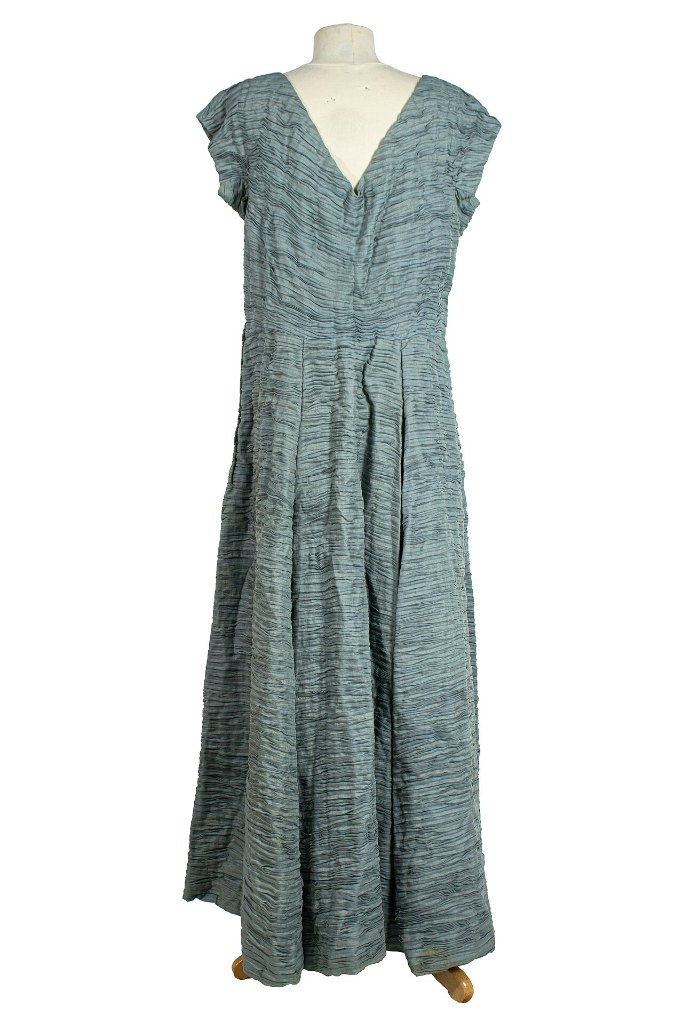
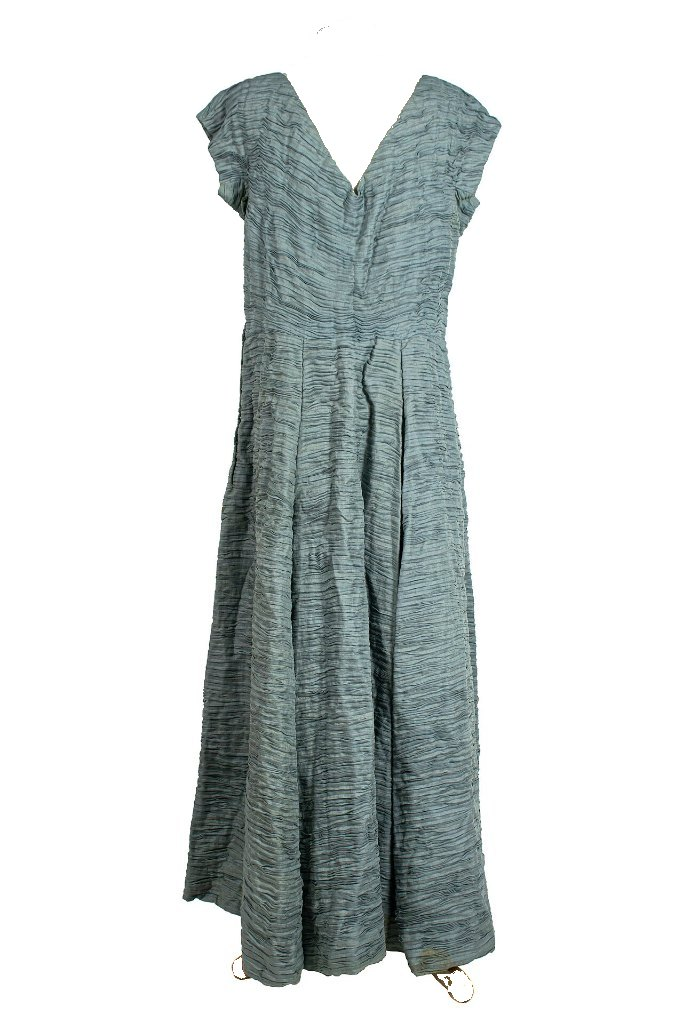
見本のワンピースからトルソーを消す・「これに決めた」をタブバーの上に固定・はじめの画面に絵と手順 (#70 #71 #72)

Changed region(s): [[0.3997, 0.0, 0.6149, 0.1875], [0.6457, 0.9375, 0.7072, 1.0], [0.3382, 0.9375, 0.369, 0.9688]]

diff --git a/src/style.css b/src/style.css
@@ -1071,3 +1071,66 @@ button:disabled {
 .rack.grid .empty p {
   margin: 0;
 }
+
+/* はじめの画面: アバターの絵と 3 つの手順 (#72) */
+.welcome-hero {
+  display: grid;
+  grid-template-columns: 100px minmax(0, 1fr);
+  align-items: center;
+  gap: var(--sp-3);
+  padding: var(--sp-3);
+  border-radius: var(--radius);
+  background: radial-gradient(ellipse at 20% 40%, var(--c-surface) 0%, var(--c-surface-2) 75%);
+}
+.welcome-hero img {
+  width: 100px;
+  height: 200px;
+  object-fit: contain;
+}
+.steps {
+  display: grid;
+  gap: var(--sp-3);
+  margin: 0;
+  padding: 0;
+  list-style: none;
+  counter-reset: step;
+}
+.steps li {
+  display: grid;
+  grid-template-columns: 28px minmax(0, 1fr);
+  column-gap: var(--sp-2);
+  counter-increment: step;
+}
+.steps li::before {
+  content: counter(step);
+  grid-row: span 2;
+  display: grid;
+  place-items: center;
+  width: 28px;
+  height: 28px;
+  border-radius: 50%;
+  background: var(--c-primary-strong);
+  color: var(--c-on-primary);
+  font-weight: 700;
+  font-size: var(--fs-s);
+}
+.steps span {
+  color: var(--c-muted);
+  font-size: var(--fs-s);
+}
+
+/* スマホの幅: 「これに決めた」はタブバーのすぐ上に固定し、スクロールしなくても押せる (#71) */
+@media (max-width: 767px) {
+  .decide-row .decide {
+    position: fixed;
+    left: max(var(--sp-3), env(safe-area-inset-left));
+    right: max(var(--sp-3), env(safe-area-inset-right));
+    bottom: calc(var(--tabbar-h) + env(safe-area-inset-bottom) + var(--sp-2));
+    width: auto;
+    z-index: 15;
+    box-shadow: 0 6px 18px rgb(181 59 94 / 0.28);
+  }
+  .dresser {
+    padding-bottom: calc(var(--tap) + var(--sp-3));
+  }
+}

diff --git a/src/App.tsx b/src/App.tsx
@@ -147,6 +147,24 @@ function Welcome({ onIn }: { onIn: (notice: string) => void }) {
       <h1>{"kisekae-closet"}</h1>
       {/* prettier-ignore */}
       <p data-testid="goal">{"開くと今日の天気とおすすめを着たアバターが出て、クローゼットから服を引っ張り出して着せ替え、ワンタップで今日のコーデに決められる"}</p>
+      {/* 何をするアプリか一目で分かるように、アバターの絵と 3 つの手順 (#72) */}
+      <div className="welcome-hero">
+        <img src="/avatar/body.webp" alt="" width="100" height="200" />
+        <ol className="steps">
+          <li>
+            <b>撮ってしまう</b>
+            <span>服の写真をクローゼットへ</span>
+          </li>
+          <li>
+            <b>着せる</b>
+            <span>天気に合うコーデがアバターに</span>
+          </li>
+          <li>
+            <b>決める</b>
+            <span>ワンタップで今日のコーデに</span>
+          </li>
+        </ol>
+      </div>
       <p className="muted">ログインはパスキーだけ。パスワードもメールアドレスも要りません。</p>
       <label className="field">
         パスキーの名前 (端末の一覧に出るだけ。保存しません)

diff --git a/docs/design-system.md b/docs/design-system.md
@@ -3,7 +3,9 @@
 持ち主: **designer**。画面はここに書いたものだけで作る。変えるときは、わざと変えて理由を `## 変えたこと` に書く。
 
 ## トークン
+
 `src/style.css` の `:root` に CSS 変数で置く。部品は生の値 (色・大きさ・余白) を書かず、変数だけを使う。
+
 - 色 (いちごミルク): 地 `--c-bg` #fff7f9・面 `--c-surface`/`--c-surface-2`・文字 `--c-text` #3d2a30・弱い文字 `--c-muted`・強調 `--c-primary-strong` #b53b5e (白い字とのコントラスト 4.5 以上)・やさしいピンク `--c-primary-soft`・失敗 `--c-danger`。
   ゲージ `--c-cold`/`--c-ok`/`--c-hot`、カレンダーの近さ `--c-same`/`--c-near`、キラッ `--c-gold`
 - 文字: system-ui (外から字を読まない)。段は `--fs-s` 0.8125 / `--fs-m` 1 / `--fs-l` 1.25rem
@@ -12,11 +14,13 @@
 - 大きさ: タップは `--tap` 48px 以上。アバターの台は `--stage-w` 200px × `--stage-h` 400px、幅 768px 以上では 280px × 560px (#34)。今日の画面は、スマホの幅 (360px) でも台 (200×400px、縮めない・左) と服の棚 (右) の 2 列。棚は台と同じ高さで、服の列 (正方形のタイル 1 列、着ている服は濃い枠と右上のチェック) と、右端の種類のレール (`--rail-w` 48px、形の絵 `KindIcon`。名前は読み上げ用の文字と title) に分ける。服の列だけが縦に流れ (持ち主 2026-11-21 の案 B)、アバターは見えたまま。その下にラベル・暖かさゲージ・これに決めた (Rin0107/kisekae-closet-archive#50)。その幅の中では**固定** (どの画面でも一番大きい。中身で縮めない)
 
 ## テーマ
+
 `src/theme.ts` の `THEMES`。いちごミルク (既定、`:root` と同じ値)・ミントソーダ・ラベンダー・ミルクティー。
 色のトークン (`THEME_TOKENS`) だけを `:root` に上書きする。大きさ・余白・台の大きさは変えない。
 字と地の組 (`TEXT_PAIRS`) は、どのテーマでも 4.5:1 以上 (`tests/unit/theme.test.ts`)。新しいテーマも同じ検査を通す。
 
 ## 部品
+
 - **アバターの台** (`Stage`): 正面に固定した体の絵 (CC0 の MakeHuman の人体を Blender で描いた `public/avatar/body.webp`、400×800、背景は透明。出どころは `public/avatar/LICENSE.md`) に、切り抜いた服の写真を種類ごとの場所 (`SLOTS`) に重ねる。写真は曲げない。トップス・ワンピース・アウター・ボトムスは**幅で合わせ、縦は写真のまま** (体の絵を測った目印 `BODY` に対し、袖を除いた身ごろが胴の下着の幅と首元を覆う幅。#26)。ボトムスは丈を先に決め、裾が足首に届く幅にする (腰を覆う 46%〜太すぎない 60%、`place`、#33)。アウターはトップスより一回り大きく少し下から置き、中の服の襟元がのぞく (#33)。くつは 2 足の写真を左右の半分に切り分け、それぞれの足に履かせる (`shoeFeet`、#32)。片足の箱は足より一回り大きく (`FOOT_BOX` 16×10%、細くても足の幅を下回らない)、ボトムスの裾より前に重ねる (長ズボンでも甲が見える、#39)。トップス・アウターは写真を左の袖・身ごろ・右の袖に切り分け (`pieces`)、切れ目は写真ごとに身ごろの端を測って決め (`bodiceEdge`、縁のにじみを袖に入れない)、袖の向き (付け根の真ん中→袖の重心、`measureSleeve`) が腕の向き (`ARM_ANGLE`、約 35 度) にそろうように回す (`sleeveTurn`、-70〜45 度。外へは付け根の真ん中、内へは肩の縫い目を中心に。袖の先は台の外に出さない。写真は曲げない、#37 #44)。袖は身ごろの下に描き、影は服 1 枚分の入れ物 (`wear-cut`) に付ける (継ぎ目に線を出さない、#44 #47)。中にトップスかワンピースを着ていれば、アウターは前身ごろを左右に分けて前を開ける (`OPEN_GAP`、#38)。こものは箱に収める。服が届くまでは服の場所に淡い形 (`wear-pending`) を出し、下着姿を見せない (#28)。今日の画面とカレンダーの下見で使う
 - **ラベルの行** (`LabelRow`): 台の下の高さ固定 (32px) の 1 行。3 つまで、残りは「+N」。台には重ねない
 - **暖かさゲージ** (`GaugeView`): 寒い・ちょうどいい・暑いの帯とつまみ。数字は出さない。服が届くまではつまみを出さず「服を読んでいます…」 (#28)。帯の言葉 (寒い・ちょうどいい・暑い) と「暖かさ: ○○」はスマホの幅でも折り返さない (`nowrap`)。その下に帯ごとの一言 (`ADVICE`、20 文字以内。寒い=「少し寒そう。もう1枚重ねよう」・ちょうどいい=「ちょうどいい。このままでOK」・暑い=「少し暑そう。1枚減らそう」)。読み込み中は出さない
@@ -35,6 +39,7 @@
 - ボタン: `primary` (主な 1 つ)・`ghost` (それ以外)・押している状態は `aria-pressed`/`aria-selected` で同じ見た目
 
 ## 状態
+
 - からっぽの棚: クローゼットの画面の棚に服がなければ、「ワンピースはまだありません」と「ワンピースを撮る」ボタン。押すと種類をその棚に合わせ、撮る欄まで動く (Rin0107/kisekae-closet-archive#49)
 - 種類のチップ: しまう服の種類は、枠と同じ形の小さな絵 (`FRAMES`、24px) と名前のチップを 1 列で横に流す (折り返さない、高さ `--tap`) (Rin0107/kisekae-closet-archive#49)
 - 登録: 写真を選ぶまで「クローゼットにしまう」は押せない (disabled)。しまえたら「トップスにしまいました」を role=status の小さなカード (`.saved`) で知らせる (Rin0107/kisekae-closet-archive#49)
@@ -45,19 +50,24 @@
 - できた: キラッ・スタンプ
 
 ## 文言
+
 - 調子: です・ます。短く。ボタンは動詞 (しまう・決めた・この日のコーデにする)
 - 服の暖かさ (しまうとき・棚のカード): ●の数でなく 5 つの言葉と服の例 (`WARMTH`): とても薄い=Tシャツ・薄手=シャツ・ふつう=ニット (最初)・厚手=ジャケット・とても暖かい=ダウン。ボタンは名前と例の縦 2 段のチップ。`aria-label` は「暖かさ 1〜5」のまま
 - 用語: 服・コーデ・クローゼット・棚・ラベル・暖かさ・スタンプ。「着せ替えてみる」ボタンは作らない
 
 ## アクセシビリティ
+
 - スマホの幅 (360px) で崩れない・横に流れない
 - キーボードだけで操作できる (カードはボタン。ドラッグの代わりにタップ・Enter で着る)
 - 文字と背景のコントラストは WCAG AA 以上。色だけで意味を伝えない (ゲージは言葉、カレンダーは凡例と aria-label)
 
 ## 変えたこと
+
 - 2026-11-17 v0.3: テーマ 4 つ・先の日のコーデ (♡・先の日の帯)。いちごミルクの `--c-primary-strong` を #c94a6c → #b53b5e (地 #fff7f9 とのコントラストが 4.26 で AA に届いていなかった。検査を足して分かった)
 - 2026-11-17 最初の版。持ち主の指定 (idea.md の「デザイン」) から: いちごミルク・台は固定で一番大きい・ラベルは台の外の 1 行・ゲームの要素はキラッとスタンプだけ
 - カレンダーで選んだ日は背景ではなく枠 (濃い色のリング) で示す。背景は「似た天気」の凡例の色のまま (#29)
 - 天気の行は、気温・湿度・雨のまとまり (`.nb`) の途中で折り返さない (#29)
 - 上部: ホーム画面から開くと全画面になる。ステータスバーは `default` (黒い文字、画面はその下から)。`main` は上と左右を `env(safe-area-inset-*)` だけ空ける (持ち主 2026-11-21「天気マークや東京が電波マークや充電量にかぶる」)
 - 天気の行: 気温を大きく (1 行目)、湿度と雨を小さく (2 行目)。市は丸い小さな選ぶ欄
+- 決めるボタン: スマホの幅 (767px まで) では「これに決めた」をタブバーのすぐ上に固定する。台 400px の下でもスクロールせずに押せる。広い画面では今日の画面の中のまま (#71)
+- はじめの画面: アバターの絵 (`body.webp`) と、番号つきの 3 つの手順 (撮ってしまう・着せる・決める) を並べる (#72)

diff --git a/docs/architecture.md b/docs/architecture.md
@@ -3,6 +3,7 @@
 持ち主: **engineer**。設計を変えたら、同じ PR でここを書き直す。
 
 ## ドメインの言葉
+
 - **服** (clothing): 写真・種類 (top / bottom / outer / dress / shoes / accessory)・暖かさ (1〜5)・名前
 - **コーデ** (outfit): ある日に着た服の組と、その日の最高/最低気温・湿度・降水量
 - **おすすめ**: 今日の天気から要る暖かさの合計を決め、手持ちの服から一番近い組を選ぶ (`src/recommend.ts`)
@@ -20,6 +21,7 @@
 - **ボトムスの丈**: 縦長の写真は腰を覆う幅 (`BOTTOM_MIN_WIDTH`) より細くできず丈が伸びる。写真は曲げず、足の裏より下に出る分は clip で下から隠す (`HEM_MAX` = 足の裏の 1% 上、`Box.clip`、評価10)
 
 ## 層と依存の向き
+
 - Worker (`src/worker/`)
   - `index.ts` — 入口。`/api/` の外は静的ファイル (`ASSETS`)。`/api/` は Origin の検査 → ログイン → セッションから利用者 ID → `api.ts`
   - `api.ts` — 利用者の API (機能を足す場所)。`Store` の関数だけを呼ぶ
@@ -35,35 +37,39 @@
   - UI: `App.tsx` (今日・クローゼット・カレンダーの 3 画面と下のタブバー)・`Avatar.tsx` (アバターの台)・`Photo.tsx` (切り抜いた写真)
 
 ## API
-| 方法 | 道 | 中身 |
-| --- | --- | --- |
-| POST | `/api/auth/register/options` | `{displayName?}` → `{challengeId, options}` |
-| POST | `/api/auth/register/verify` | `{challengeId, response}` → Cookie |
-| POST | `/api/auth/login/options` | → `{challengeId, options}` |
-| POST | `/api/auth/login/verify` | `{challengeId, response}` → Cookie |
-| POST | `/api/auth/logout` | Cookie を消す |
-| GET | `/api/me` | `{signedIn: true}` か 401 |
-| DELETE | `/api/account` | アカウントと全データを消す |
-| GET/POST | `/api/clothes` | 一覧 (写真なし) / `{kind, warmth, label, photo(base64)}` |
-| GET | `/api/clothes/:id/photo` | 写真 (本人だけ、no-store) |
-| PATCH/DELETE | `/api/clothes/:id` | `{kind?, warmth?, label?}` / 消す |
-| GET/POST | `/api/outfits` | `?limit=` / `{wornOn, itemIds, tempMax, tempMin, humidity, precip}` |
-| DELETE | `/api/outfits/:id` | 消す |
-| GET | `/api/export` | 服 (写真つき) とコーデの JSON |
+
+| 方法         | 道                           | 中身                                                                |
+| ------------ | ---------------------------- | ------------------------------------------------------------------- |
+| POST         | `/api/auth/register/options` | `{displayName?}` → `{challengeId, options}`                         |
+| POST         | `/api/auth/register/verify`  | `{challengeId, response}` → Cookie                                  |
+| POST         | `/api/auth/login/options`    | → `{challengeId, options}`                                          |
+| POST         | `/api/auth/login/verify`     | `{challengeId, response}` → Cookie                                  |
+| POST         | `/api/auth/logout`           | Cookie を消す                                                       |
+| GET          | `/api/me`                    | `{signedIn: true}` か 401                                           |
+| DELETE       | `/api/account`               | アカウントと全データを消す                                          |
+| GET/POST     | `/api/clothes`               | 一覧 (写真なし) / `{kind, warmth, label, photo(base64)}`            |
+| GET          | `/api/clothes/:id/photo`     | 写真 (本人だけ、no-store)                                           |
+| PATCH/DELETE | `/api/clothes/:id`           | `{kind?, warmth?, label?}` / 消す                                   |
+| GET/POST     | `/api/outfits`               | `?limit=` / `{wornOn, itemIds, tempMax, tempMin, humidity, precip}` |
+| DELETE       | `/api/outfits/:id`           | 消す                                                                |
+| GET          | `/api/export`                | 服 (写真つき) とコーデの JSON                                       |
 
 GET 以外は `Origin` が `env.ORIGIN` と同じときだけ。応答は `Cache-Control: private, no-store`。
 
 ## 仕様との対応
+
 - `spec/Access.tla` の `OwnerOnly` — `tests/unit/db.test.ts`・`worker.test.ts` の `Spec_OwnerOnly`
 - `spec/Access.tla` の `NoExpiredAccess` — `tests/unit/db.test.ts` の `Spec_NoExpiredAccess`
 - `spec/recommend.smt2` — `tests/unit/recommend.test.ts` の PBT (寒いほど下がらない)
 
 ## 配り方
+
 `npm run bundle` が `dist/` (静的) と `bundle/worker.js` (Worker を 1 ファイルに) を作る。
 `wk deploy` がそれと `migrations/` を deploy ブランチに置き、本番の `wrangler.jsonc` (名前・D1 の database_id・ORIGIN) を作る。
 Cloudflare で動くのは版固定の wrangler だけ (工場の書いたコードは鍵のある所で動かない)。
 
 ## 決めたこと
+
 - 2026-11-15 ログインはパスキーだけ (Google 認証は OAuth の secret とメールが付くのでやめた)。持ち主の決定
 - 2026-11-15 服は写真で登録 (持ち主の指定)。R2 は無料でもカードが要るので、D1 に 1 枚 300KB まで
 - 2026-11-17 ラベルは今は服に 1 つ (`clothes.label`)。複数のラベル (labels 表) は migrations の変更なので、要ると分かったら人に頼む
@@ -75,6 +81,7 @@ Cloudflare で動くのは版固定の wrangler だけ (工場の書いたコー
 - 2026-11-21 写真の袖の向き (`measureSleeve` の `angle`) は、付け根から重心へではなく、袖の帯の画素の主軸 (付け根から袖の先へ向けたもの) で測る。真下に垂れた長袖を 0° と測る。ただし帯が細長いとき (分散の比が `SLEEVE_LONG` 8 以上) だけ。太く短い帯 (広げた半袖) の主軸は袖の幅の向きになりうるので、そのときは付け根から重心への向きのまま (e2e AC-44-1 を保つ、試行 1・2 が落ちた理由)
 
 ## 天気が読めないうちに決めたコーデ (#46)
+
 D1 のコーデはその日の気温・湿度・降水量を必ず持つ (migrations は守りの部分で、欄を空にできない)。
 天気が読めないうちに「これに決めた」を押したら、日付と服の ID だけを端末 (`kisekae-closet:pending`) に置き、
 その日の天気が読めたら いつものコーデとして保存して端末から消す (`App.tsx` の `decideLater` と保存の effect)。今日より前のものは捨てる。

diff --git a/docs/runbook.md b/docs/runbook.md
@@ -3,31 +3,37 @@
 持ち主: **sre**。壊れたときに、これだけを読めば戻せるように書く。
 
 ## 動かし方と確かめ方
+
 - 手元: `npm ci && npm run verify` (lint・型・テスト・ビルド・守りの検査)、`npm run e2e` (wrangler dev と手元の D1。パスキーは Chromium の仮想の認証器)
 - 本番: `wk deploy` (工場がやる)。`npm run bundle` の `dist/` と `bundle/worker.js` と `migrations/` を deploy ブランチに置き、Cloudflare (Workers Builds) が版固定の wrangler で `d1 migrations apply` と `deploy` をする
 - 鍵はこのマシンにも repo にも置かない。D1 の database_id と ORIGIN は秘密ではない (wk が本番の wrangler.jsonc に書く)
 
 ## 失敗の種類と扱い
-| 失敗 | 利用者に見えるもの | 確かめ方 |
-| --- | --- | --- |
-| セッションの期限切れ・消えた | ログインの前の画面に戻る (401) | `GET /api/me` が 401 |
-| パスキーを確かめられない | 「パスキーを確かめられない」 | 問題 (5 分) の期限、rp ID (= ORIGIN のホスト名) が合っているか |
-| 写真が大きい・Exif が残る | 理由を出す (400) | `src/worker/photo.ts` の理由の文 |
-| 上限 (服 500・コーデ 5000) | 「服は 500 着まで」など (400) | `LIMITS` (db.ts) |
-| Worker の中の失敗 | 「失敗した」(500)。ログは固定の文だけ | Cloudflare のダッシュボードの数 (中身は残らない) |
-| 天気が読めない | 自動で 2 回読み直し、だめなら「もう一度読む」を出す。前回の予報があればそれで決められる (クローゼットは使える) | Open-Meteo の答え (`src/weather.ts` の parseWeather) |
+
+| 失敗                         | 利用者に見えるもの                                                                                             | 確かめ方                                                       |
+| ---------------------------- | -------------------------------------------------------------------------------------------------------------- | -------------------------------------------------------------- |
+| セッションの期限切れ・消えた | ログインの前の画面に戻る (401)                                                                                 | `GET /api/me` が 401                                           |
+| パスキーを確かめられない     | 「パスキーを確かめられない」                                                                                   | 問題 (5 分) の期限、rp ID (= ORIGIN のホスト名) が合っているか |
+| 写真が大きい・Exif が残る    | 理由を出す (400)                                                                                               | `src/worker/photo.ts` の理由の文                               |
+| 上限 (服 500・コーデ 5000)   | 「服は 500 着まで」など (400)                                                                                  | `LIMITS` (db.ts)                                               |
+| Worker の中の失敗            | 「失敗した」(500)。ログは固定の文だけ                                                                          | Cloudflare のダッシュボードの数 (中身は残らない)               |
+| 天気が読めない               | 自動で 2 回読み直し、だめなら「もう一度読む」を出す。前回の予報があればそれで決められる (クローゼットは使える) | Open-Meteo の答え (`src/weather.ts` の parseWeather)           |
 
 ## 戻し方
+
 - 壊れた版を出したとき: 直す PR を出して `wk merge` → `wk deploy`。前の版に戻すなら revert の PR
 - migrations は足すだけ (消す・名前を変えるものは書かない)。戻すときも新しい migration で
 - 利用者のデータを消してしまったときに戻す手段は持たない (バックアップに個人のデータを置かない)。だから消す処理は db.ts の決まった関数だけ
 
 ## テストの体制
+
 - e2e はまず iphone (iPhone 13 の大きさ 390×664・タッチ・モバイル、chromium) で、次に広い画面 (Desktop Chrome、1280) で走る (`playwright.config.ts` の projects。持ち主 Rin0107/kisekae-closet-archive#49「スマホ最優先、テストは必ずスマホ幅で」)
 - 認可: 別の利用者からは届かないことを `tests/unit/db.test.ts`・`worker.test.ts`・`routes.test.ts` で (Spec_OwnerOnly)
 - D1 は `tests/unit/fake-d1.ts` (Node の SQLite に migrations を流したもの)
+
 <!-- 不安定なテストの記録 (日付・どのテスト・原因・直し方)。再実行で通すのは直したことにならない -->
 
 ## 依存
+
 - `@simplewebauthn/server` 14.0.3・`@simplewebauthn/browser` 14.0.0 — パスキー (2026-11-15。2 週間より前に出た版)
 - `zod` — 入力の検査。`react`・`react-dom` — 画面

diff --git a/public/samples/LICENSE.md b/public/samples/LICENSE.md
@@ -1,6 +1,6 @@
 # 見本の服の写真
 
-アカウントを作ったときに、クローゼットへ 1 枚ずつ入れる見本 (src/samples.ts)。Wikimedia Commons の写真を、長辺 1024px に縮めて JPEG に書き直した (撮影の情報などは入っていない)。作り変えた写真の使用条件は、元の写真と同じ。`top.jpg` は、タートルネックの首の穴 (内側の暗いところ) をニットの色で塗った。
+アカウントを作ったときに、クローゼットへ 1 枚ずつ入れる見本 (src/samples.ts)。Wikimedia Commons の写真を、長辺 1024px に縮めて JPEG に書き直した (撮影の情報などは入っていない)。作り変えた写真の使用条件は、元の写真と同じ。`top.jpg` は、タートルネックの首の穴 (内側の暗いところ) をニットの色で塗った。 `dress.jpg` は、トルソー (首・背中) と台の脚を白で塗った。
 
 | ファイル | 元の写真 | 作者 | ライセンス |
 | --- | --- | --- | --- |
